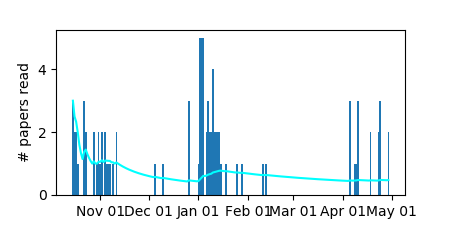
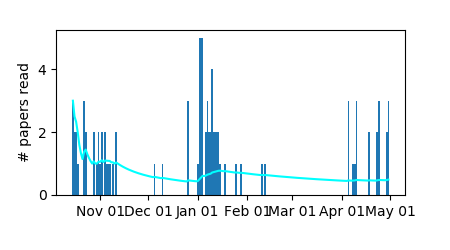
territory papers

diff --git a/papers/ecology/fishes/WardHart2003FF.md b/papers/ecology/fishes/WardHart2003FF.md
@@ -1,0 +1,52 @@
+04/30/19
+## Authors:
+Ward, Ashley J.W. and Hart, Paul J.B.
+## Title:
+The effects of kin and familiarity on interactions between fish
+## Keywords:
+recognition, association
+## Geographic Coverage
+N/A
+## Field Dates:
+N/A
+## Significance:
+Review of literature on role of recognition of relatedness in interactions.
+
+## Notes:
+Kin recognition and preference, Lab studies
+- Many species of fish have been observed to recognize kin, with a lot of studies on salmon and the use of olfactory elements, such as odor cues.
+- Some fish such as sticklebacks have been observed to preferentially associate with siblings as juveniles, even when isolated at the egg stage, thus innate.
+- Female rainbowfish differentiated between kin and nonkin males when associating, possibly to reduce inbreeding.
+
+Mechanisms of recognition
+- Phenotypic signals (chemical or visual) are noticed, compared to a "template" to ID kin.  The "template" may be innate or learned during a period of development.
+- Kin recognition may depend on early association, and thus those raised with both kin and nonkin are unable to differentiate, or when raised in isolation.
+- Some fishes, when raised with heterospecifics, prefer to associate with those rather than unfamiliar conspecifics.
+- Some fish transmit chemical cues through urine.
+- New research shows polymorphic glycoprotein coders which affect the odor of the carrier, thus allowing for recognition.
+
+Advantages of recognition and kin association
+- Avoiding the cost of inbreeding and maintaining levels of outbreeding to optimize genetic variation.
+- Inclusive fitness: maintaining optimal group size for shoals for producing alerts, levels of aggression (and thus time spent defending).
+- At high levels of competition, it may be advantageous to increase genotypic variability.
+
+Importance of Relatedness
+- currently lack of evidence in kin selection from the field, might be due to animals being hatched and reared together, and thus little discrimination between kin and familiar individuals.
+
+Familiarity
+- The potential for the ability to recognize familiars may be dependent on the social dynamics of a species.
+- Mechanisms: based on the discrimination of visual or chemical cues, studies have shown that it may be chemical alone in some cases, and thus there is no limit to the number of familiars that can be recognized by an individual.
+- Fish with a similar recent habitat exploitation who are nonfamiliar may have similar odor cues.
+- In work on guppies, a study showed individual recognition, and thus there would be an upper limit (memory).
+- May also be linked to sex, where males/females show a preference for same-sex familiars
+
+Advantages of familiars
+- Antipredation: shoal more cohesively in the presence of a predator, and the production/investment in creation of epithelial alarm cells.
+- Natural selection would favor a reduction in aggression behavior.
+- Spread of information more efficiently due to increased familiarity of signals through interactions
+- Mate choice and distribution of reproductive effort in fish that may prefer to mate with unfamiliar fish.
+
+Importance
+- Few observations have been observed in the field, though in the lab there are many examples of non-random assortment of familiar fish within shoals.
+
+Kin group occurrence is partly a function of life history, and the development of recognition templates may result in familar development as well.  If familiarity is a good predictor of relatedness in some communities, kin selection may not occur/be necessary.

diff --git a/README.md b/README.md
@@ -65,6 +65,8 @@ Notes (author, year, journal in file header) on readings.  Top of each note docu
      * Background level of predation risk (pre-exposure) is a stronger driver of neophobic response than concentration of cue. 
 * [Catano2017O - Predator identity and time of day interact to shape the risk–reward trade-off for herbivorous coral reef fishes](https://github.com/leviner/ReadingList/tree/master/papers/ecology/fishes/Catano2017O.md) 
      * Herbivorous fish show a threat-sensitive response by decreasing foraging near models of predators, but the effect is dependent on time of day. 
+* [Clayton1987B - Why Mudskippers Build Walls](https://github.com/leviner/ReadingList/tree/master/papers/ecology/fishes/Clayton1987B.md) 
+     * Shows the impact of compressibility (increasing density) on territoriality through the use of mudwalls to define spaces and limit aggression between neighbors. 
 * [Ebersole1977E - The Adaptive Significance of Interspecific Territoriality in the Reef Fish Eupomacentrus Leucostictus](https://github.com/leviner/ReadingList/tree/master/papers/ecology/fishes/Ebersole1977E.md) 
      * Both food resource and nest defense are prominent functions of interspecific territoriality 
 * [Fausch1984CJZ - Profitable stream positions for salmonids: relating specific growth rate to net energy gain](https://github.com/leviner/ReadingList/tree/master/papers/ecology/fishes/Fausch1984CJZ.md) 
@@ -81,6 +83,10 @@ Notes (author, year, journal in file header) on readings.  Top of each note docu
      * Observe and quantify the feeding success and failure of larval fish as a function of both fish age (day post-hatch) and copepod stage. 
 * [ScheuerellSchindler2003E - Diel Vertical Migration by Juvenile Sockeye Salmon: Empirical Evidence for the Antipredation Window](https://github.com/leviner/ReadingList/tree/master/papers/ecology/fishes/ScheuerellSchindler2003E.md) 
      * Juvenile sockeye migrate to maintain a specific light environment to minimize predation risk in lakes. 
+* [WardHart2003FF - The effects of kin and familiarity on interactions between fish](https://github.com/leviner/ReadingList/tree/master/papers/ecology/fishes/WardHart2003FF.md) 
+     * Review of literature on role of recognition of relatedness in interactions. 
+* [WarnerHoffman1980E - Population Density and the Economics of Territorial Defense in a Coral Reef Fish](https://github.com/leviner/ReadingList/tree/master/papers/ecology/fishes/WarnerHoffman1980E.md) 
+     * Implications of density on mating success of territorial male reef fishes, showing that decreased density of fish leads to less time defending and thus more time for mating. 
 
 ### general 
  

diff --git a/papers/ecology/fishes/WarnerHoffman1980E.md b/papers/ecology/fishes/WarnerHoffman1980E.md
@@ -1,0 +1,29 @@
+04/30/19
+## Authors:
+Warner, Robert R. and Hoffman, Steven G.
+## Title:
+Population Density and the Economics of Territorial Defense in a Coral Reef Fish
+## Keywords:
+mating, territoriality, coral reefs
+## Geographic Coverage
+San Blas Islands, Panama
+## Field Dates:
+08/21/1976 - 11/28/1977
+## Significance:
+Implications of density on mating success of territorial male reef fishes, showing that decreased density of fish leads to less time defending and thus more time for mating.
+
+## Notes:
+Hypothesis: the time and energy allocations of a territorial male depends on the composition and density of the surrounding population.  Mating success should vary inversely with population density.
+
+How does time and energy devoted to interactions with females and other males influence mating success?  An increase in the number of females benefits if the male has time for increased mating activity.  However, an increase in interference from other males resulting in high territorial cost lowers the time available for mating.
+- Low population density: a territorial male can have enough time for both defense and mating.  Mating success should increase reflecting the supply of females.
+- Higher population densities: they must spend more time defending, thus limiting time for mating.  Mating success should decline.
+- Highest densities: territories become undefendable and thus the male abandons the site or becomes nonterritorial.
+
+Animals were recorded for 1) aggression 2) courtship and 3) spawning activities at reefs of different size and densities.
+
+On all but the smallest reef, the number of interfering males strongly affects the defendability of the territories. On the smallest reefs, reduction in population size led to decrease in mating success, while on the larger reefs, led to an increase.  Conversely, increasing population sizes had a negative effect on mating success on larger reefs.
+
+Numbers of male more strongly drive variation in mating success rather than number of available females.  Time spent in defense increases with density of males, and the efficiency of courtship decreases with number of males.
+
+Although mating success of a territorial male may be lowered in high density, it still may be higher than a nonterritorial male.  Up to a point however, where it may be more profitable to seek a mate than remain in place to attract one.

diff --git a/papers/ecology/fishes/Clayton1987B.md b/papers/ecology/fishes/Clayton1987B.md
@@ -1,0 +1,30 @@
+04/30/19
+## Authors:
+Clayton, D. A.
+## Title:
+Why Mudskippers Build Walls
+## Keywords:
+competition, territoriality, habitat, aggression
+## Geographic Coverage
+Sulaibikhat Bat, Kuwait
+## Field Dates:
+N/A
+## Significance:
+Shows the impact of compressibility (increasing density) on territoriality through the use of mudwalls to define spaces and limit aggression between neighbors.
+
+## Notes:
+In featureless environments, substrate construction can be used as signals for exclusion.
+
+B. boddarti are amphibious gobiid which are territorial and build walls of mud to define their territories.  Hypothesis: These walls may also serve to limit aggression between neighbors.
+
+Active burrow systems were made (wall, no wall, and polygonal territories).  To see if mudwalls were acting as physical or just visual barriers, a strait portion of the mudwall was removed and replaced with wood, something clear, or nothing.  Walls in a single territory were set with single or multiple conditions.  Behavior of fish before and after modification was recorded, both intruder and resident response.
+
+You can identify the wall builder by observing which fish had mud in its mouth. About half of the walls were reconstructed by both fish.
+
+With increasing population density (and thus decrease neighbor distance), more mudwalls were constructed.  
+
+In most cases, mud walls were rebuilt where spaces or perspex were left, but not where hardboard was placed.  Perspex walls were effective and eventually mud covered, usually some partial mud building occurred, and fish "jostled" through the glass.
+
+The removal of a mud wall had no effect on the number of chases, but rather on the number of chases directed at the neighbor with which the wall had been removed.  After removal, neighbors appeared to be more likely to ignore each other.  This avoidance also accounts for adjacent burrow systems without a separating mud wall in low density areas.
+
+When population levels are low, fishes don't build walls, and these distances naturally decrease with increasing density.  The mud walls mostly serve as a visual barrier to reduce agnostic behavior rather than.
